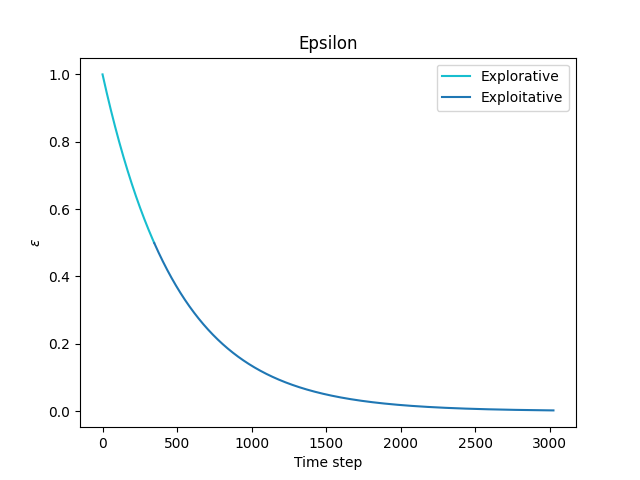
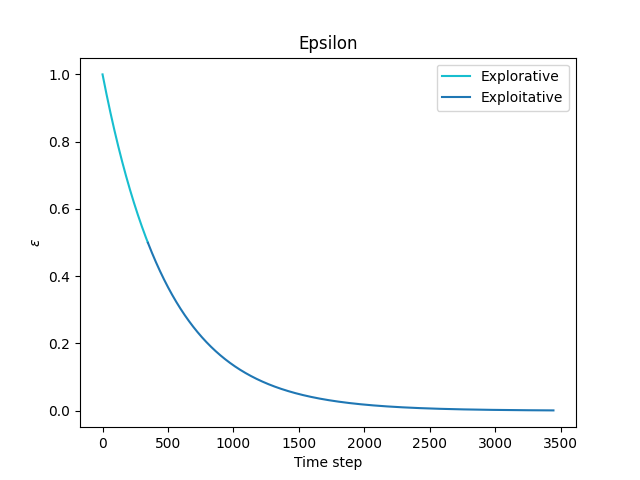
Make batch running script

diff --git a/src/parameters.py b/src/parameters.py
@@ -1,8 +1,9 @@
 from data_classes import Shape
 
 # General
+BATCHES = 10
 EPISODES = 300
-VISUALIZE_GAMES = True
+VISUALIZE_GAMES = False
 FRAME_DELAY = 0.15
 
 # Simulated World
@@ -15,8 +16,8 @@ HOLES = set([
 ])
 
 # Actor
-ACTOR_LEARNING_RATE = 0.01
-ACTOR_DISCOUNT_FACTOR = 0.85
+ACTOR_LEARNING_RATE = 0.001
+ACTOR_DISCOUNT_FACTOR = 0.95
 ACTOR_TRACE_DECAY = 0.85
 
 ACTOR_EPSILON = 1.0
@@ -24,9 +25,9 @@ ACTOR_EPSILON_DECAY = 0.998
 
 # Critic
 CRITIC_LEARNING_RATE = 0.001
-CRITIC_DISCOUNT_FACTOR = 0.85
+CRITIC_DISCOUNT_FACTOR = 0.95
 CRITIC_TRACE_DECAY = 0.85
 
 USE_TABLE_CRITIC = False
 INPUT_DIMENSION = SIZE ** 2 if BOARD_TYPE == Shape.Diamond else int((SIZE * (SIZE + 1)) / 2)
-CRITIC_NN_DIMENSIONS = (INPUT_DIMENSION, 20, 25, 10, 1)
+CRITIC_NN_DIMENSIONS = (INPUT_DIMENSION, 20, 30, 15, 1)

diff --git a/src/reinforcement_learner.py b/src/reinforcement_learner.py
@@ -61,7 +61,7 @@ class ReinforcementLearner:
 
             state, action = next_state, next_action
 
-    def run(self) -> None:
+    def run(self, batch_number: int = 0) -> None:
         """
         Runs all episodes with pivotal parameters.
         Visualizes one round at the end.
@@ -73,7 +73,7 @@ class ReinforcementLearner:
         print('Training completed.')
         self.__actor.plot_training_data()
         self.__critic.plot_training_data()
-        self.__simulated_world.plot_training_data()
+        self.__simulated_world.plot_training_data(batch_number)
 
         if parameters.VISUALIZE_GAMES:
             print('Showing one episode with the greedy strategy.')

diff --git a/src/simulated_world.py b/src/simulated_world.py
@@ -46,9 +46,9 @@ class SimulatedWorld:
         self.__game_board.reset_game()
         return self.__grid_to_vector(), self.__game_board.get_all_legal_actions()
 
-    def plot_training_data(self) -> None:
+    def plot_training_data(self, batch_number: int = 0) -> None:
         self.__peg_history.append(self.__game_board.pegs_remaining())
-        Visualize.plot_training_data(self.__peg_history[1:])
+        Visualize.plot_training_data(self.__peg_history[1:], batch_number)
 
     def __memoize_legal_actions(self, grid_to_vector: Tuple[bool]) -> Tuple[Action]:
         if grid_to_vector not in self.__memoized_legal_actions:

diff --git a/src/visualize.py b/src/visualize.py
@@ -117,13 +117,13 @@ class Visualize:
         plt.clf()
 
     @staticmethod
-    def plot_training_data(training_data):
+    def plot_training_data(training_data, batch_number):
         plt.title('Training data')
         plt.xlabel('Episode')
         plt.ylabel('Remaining Pegs')
         plt.plot(training_data, color='tab:blue')
 
-        plt.savefig('src/results/training_data.png')
+        plt.savefig(f'src/results/training_data_{batch_number}.png')
         plt.close()
 
     @staticmethod

diff --git a/src/main.py b/src/main.py
@@ -1,5 +1,7 @@
 from reinforcement_learner import ReinforcementLearner
+import parameters
 
 if __name__ == "__main__":
-    agent = ReinforcementLearner()
-    agent.run()
+    for batch_number in range(parameters.BATCHES):
+        agent = ReinforcementLearner()
+        agent.run(batch_number)

diff --git a/src/parameters/2_parameters.py b/src/parameters/2_parameters.py
@@ -20,7 +20,7 @@ ACTOR_DISCOUNT_FACTOR = 0.85
 ACTOR_TRACE_DECAY = 0.85
 
 ACTOR_EPSILON = 1.0
-ACTOR_EPSILON_DECAY = 0.998
+ACTOR_EPSILON_DECAY = 0.997
 
 # Critic
 CRITIC_LEARNING_RATE = 0.001
